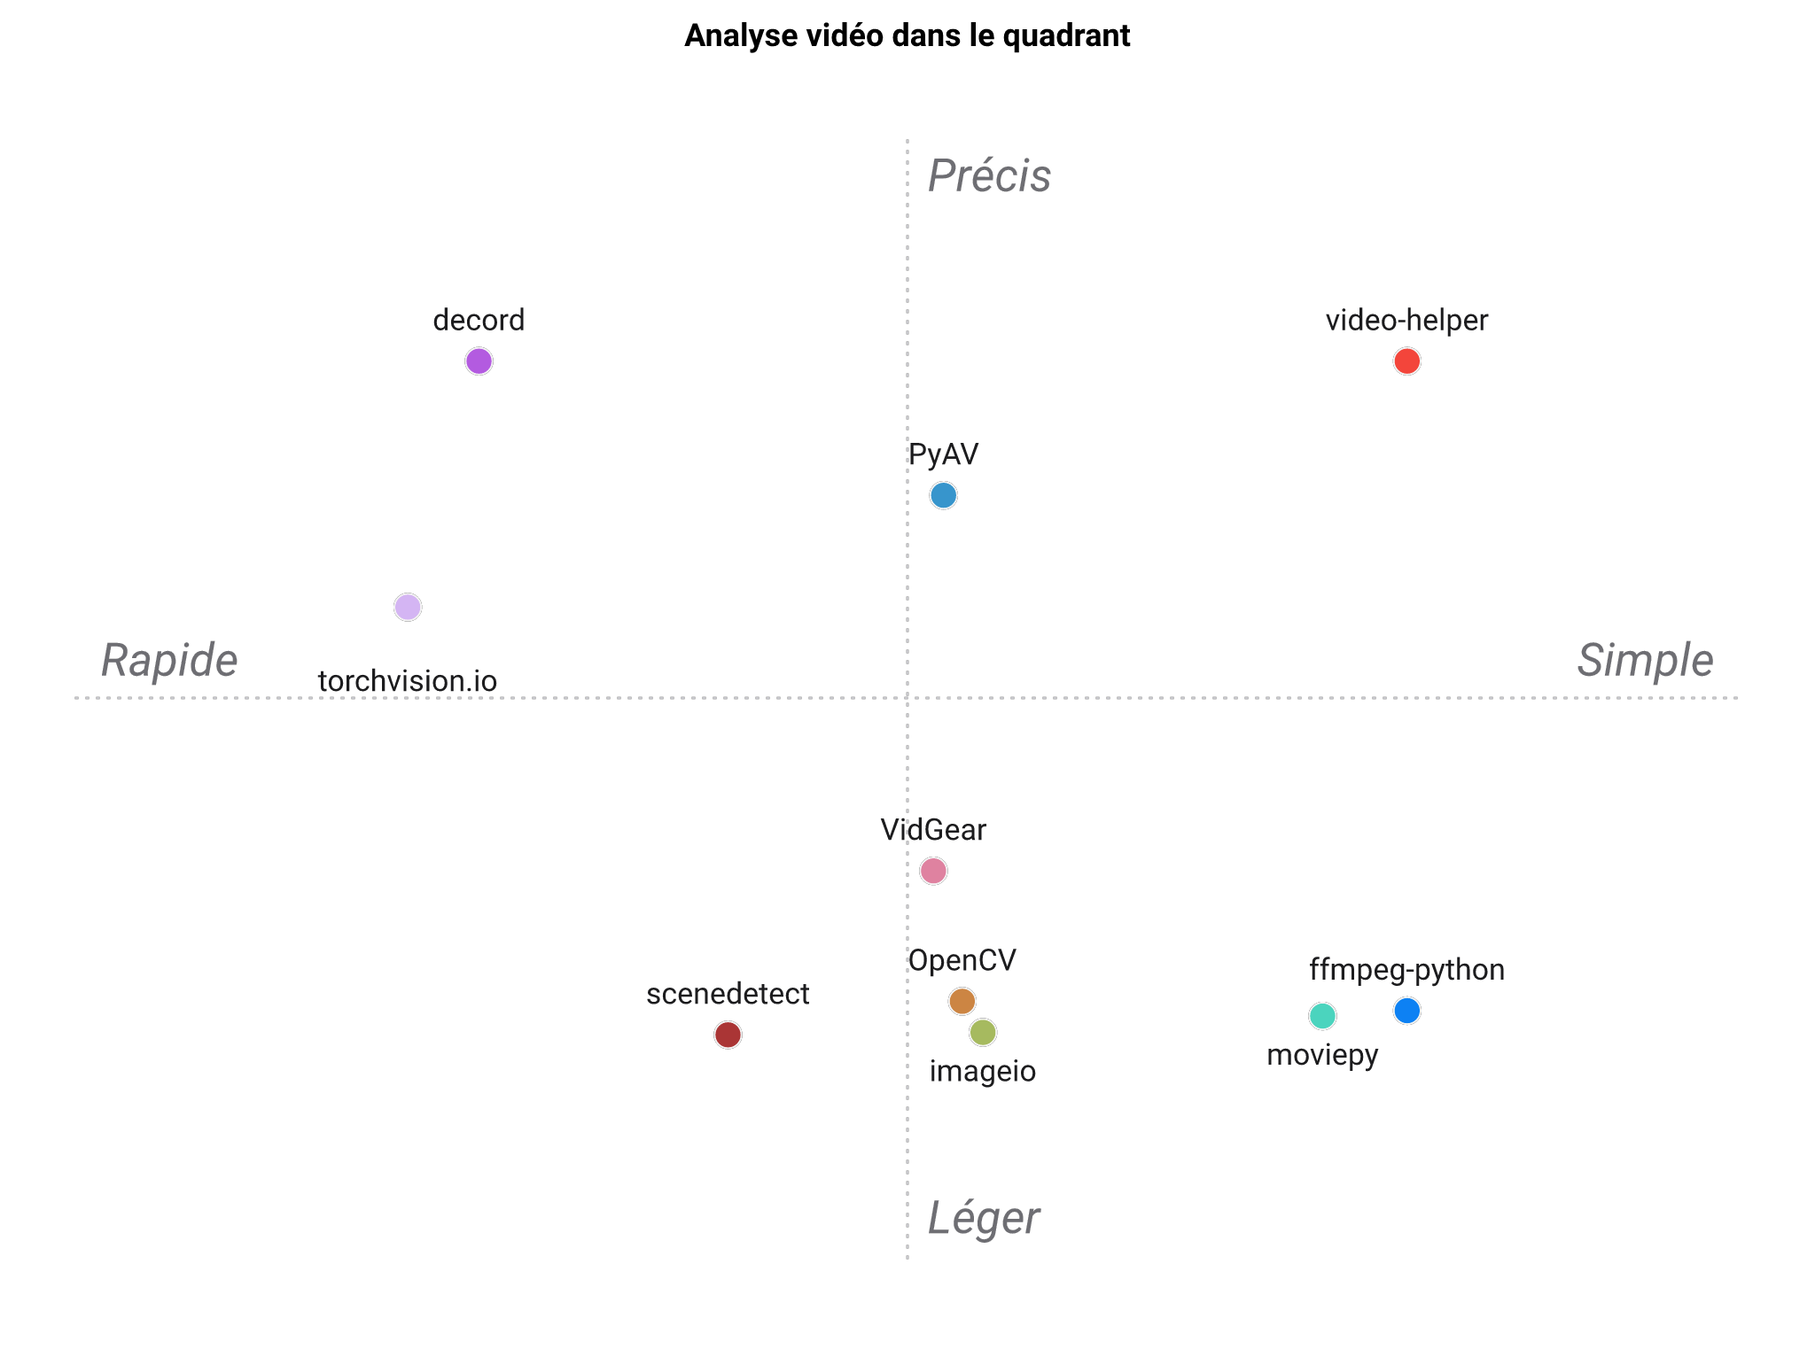
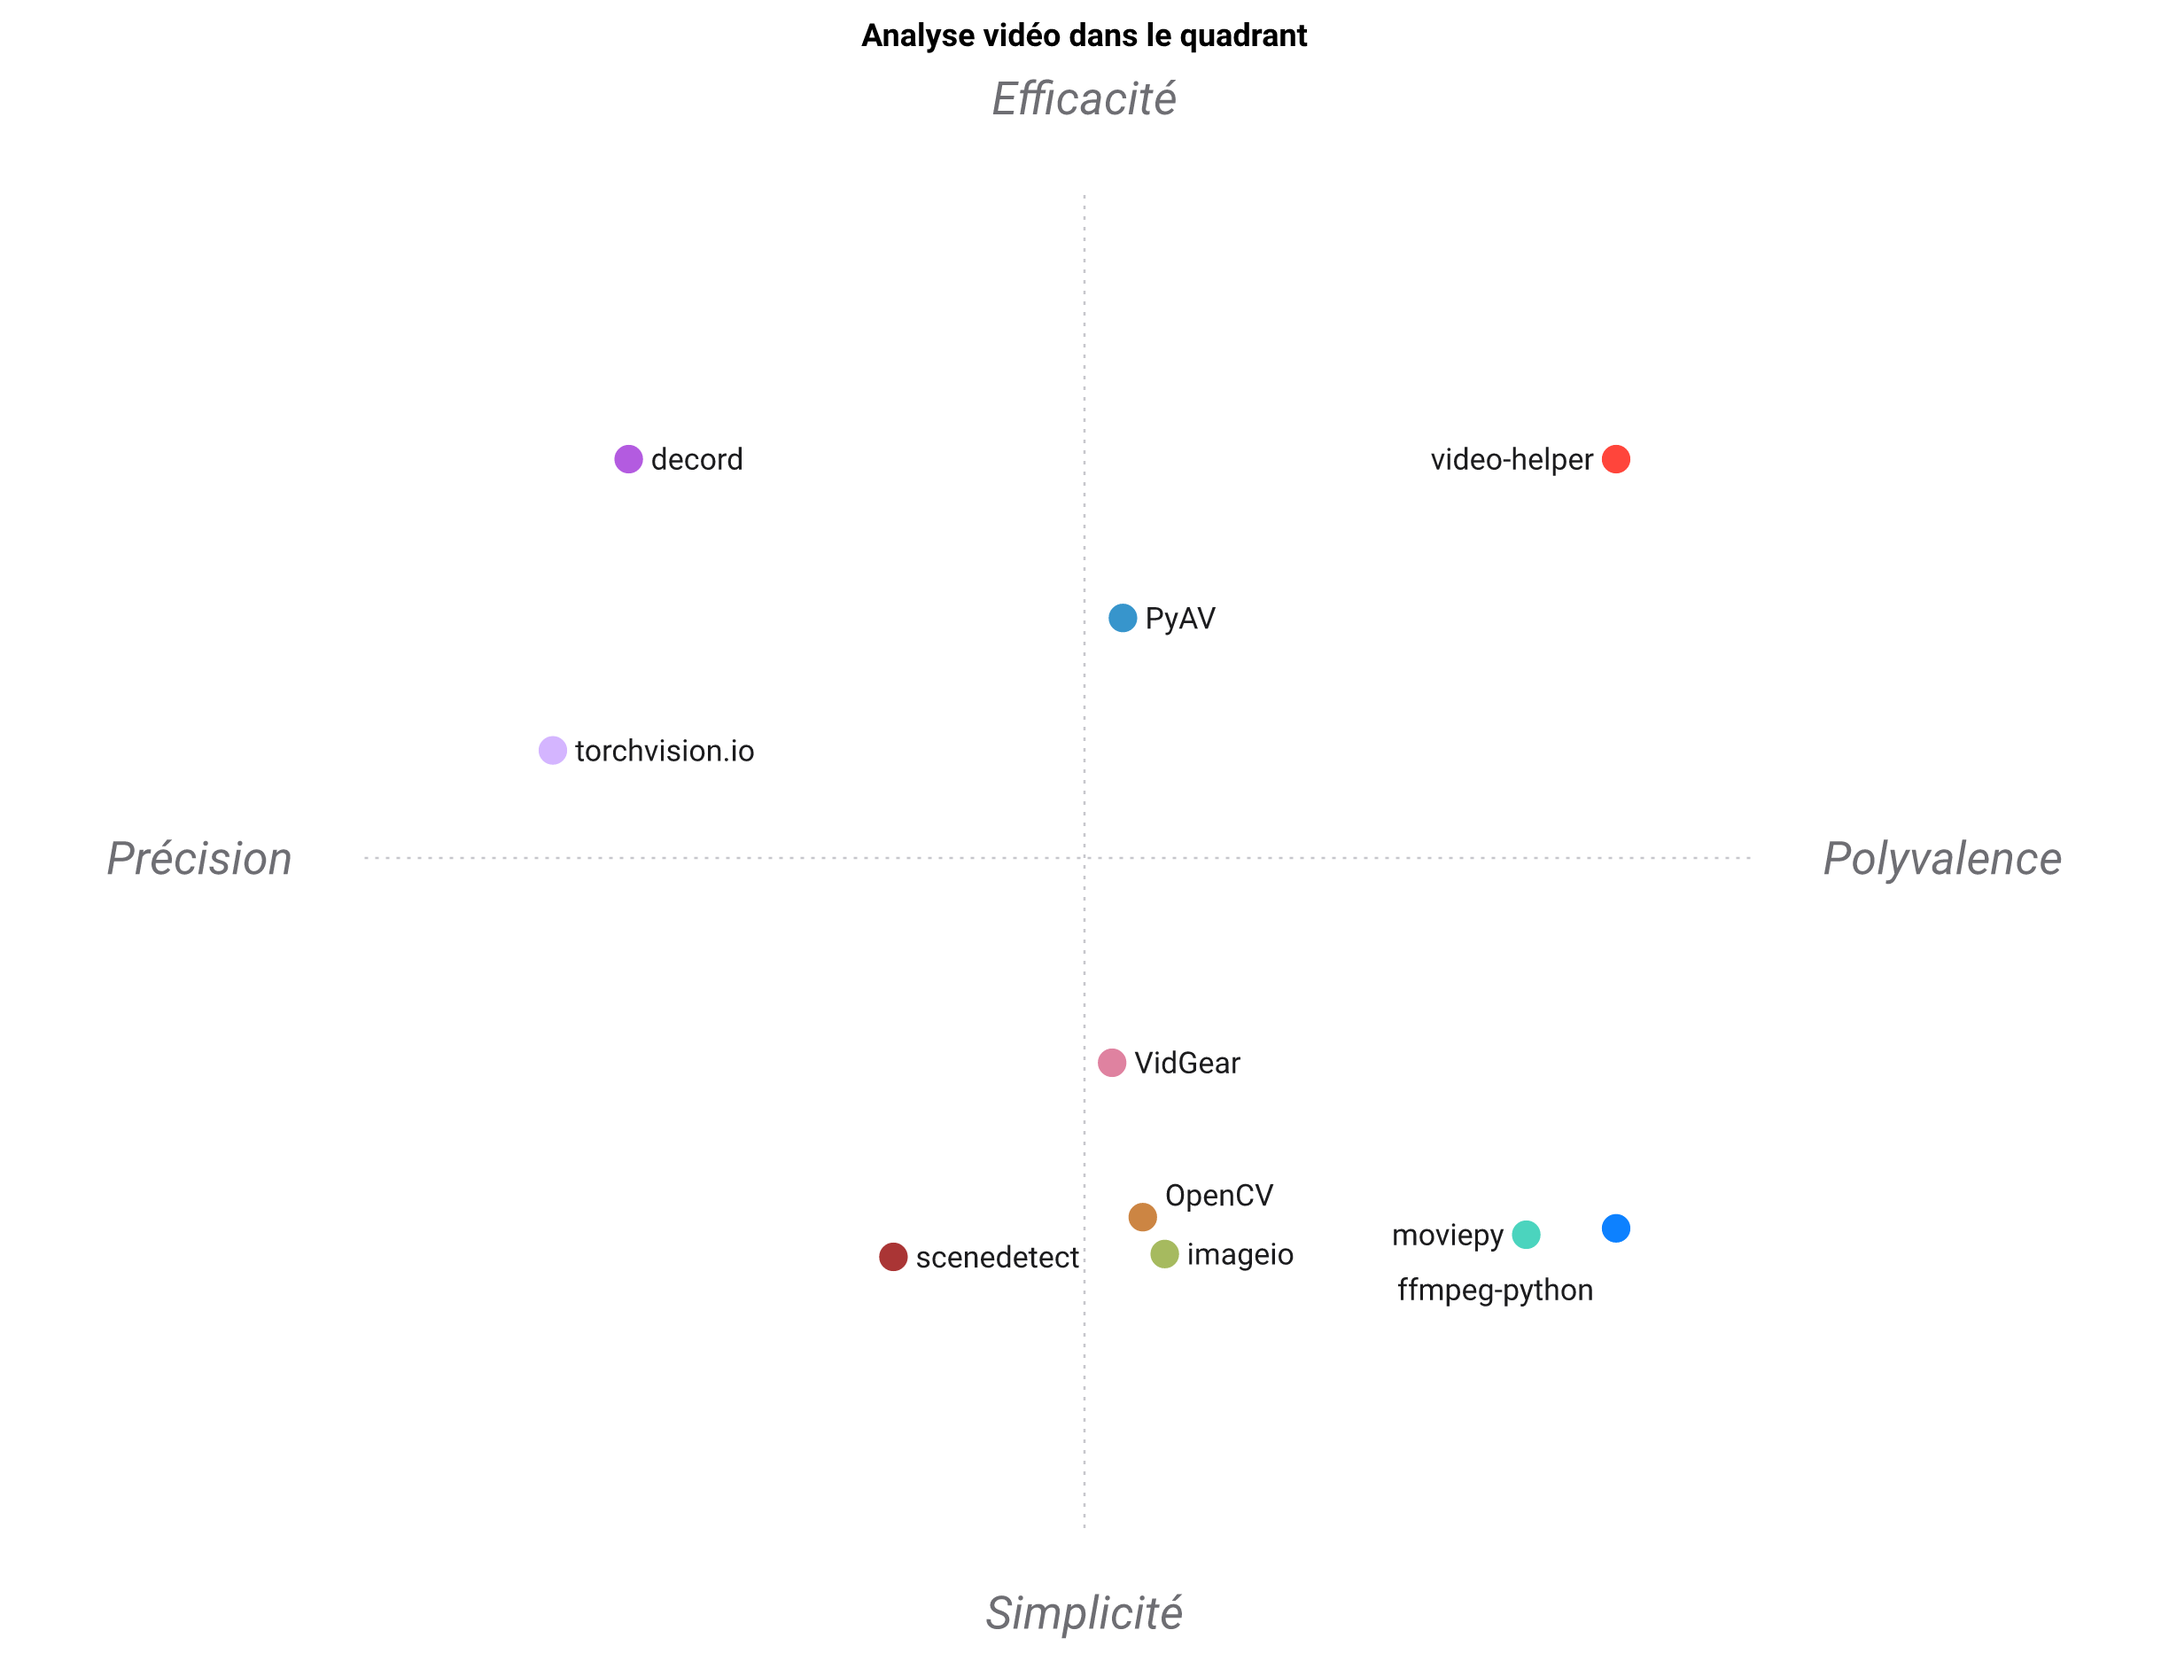
docs: regenerate LANDSCAPE/PAYSAGE positioning figures
Rerun via gen_landscape.py against the current standpoint (Vega retired,
SVG+resvg_py rasterisation pipeline).

diff --git a/PAYSAGE.md b/PAYSAGE.md
@@ -36,7 +36,7 @@ Représentation 2D du tableau ci-dessus.
 
 ![Carte de positionnement](https://raw.githubusercontent.com/warith-harchaoui/video-helper/main/assets/paysage.png)
 
-La carte est un résumé en 2D des 8 critères : à lire comme une forme, pas comme un classement. « video-helper » se situe dans le coin en haut à droite. Les axes se lisent **Horizontal — Rapide ↔ Simple** et **Vertical — Léger ↔ Précis**.
+La carte est un résumé en 2D des 8 critères : à lire comme une forme, pas comme un classement. « video-helper » se situe dans le coin en haut à droite. Les axes se lisent **Horizontal — Précision ↔ Polyvalence** et **Vertical — Simplicité ↔ Efficacité**.
 <!-- FIGURE:END -->
 
 ## Positionnement

diff --git a/LANDSCAPE.md b/LANDSCAPE.md
@@ -35,7 +35,7 @@ penalised — the score just reflects fit to *this* niche.
 
 ![Positioning map](https://raw.githubusercontent.com/warith-harchaoui/video-helper/main/assets/landscape.png)
 
-The map is a 2-D summary of the eight criteria, so read it as a shape, not a scoreboard. `video-helper` is at the top-right corner. The axes read **Horizontal — Speed ↔ Versatility** and **Vertical — Ease of Use ↔ Precision**.
+The map is a 2-D summary of the eight criteria, so read it as a shape, not a scoreboard. `video-helper` is at the top-right corner. The axes read **Horizontal — Nimble ↔ Versatile** and **Vertical — Compact ↔ Expansive**.
 <!-- FIGURE:END -->
 
 ## Positioning
